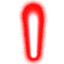
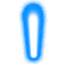
Highscore System eingebaut. Speichert lokale Bestzeit

Changed region(s): [[0.2812, 0.0, 0.75, 1.0]]

diff --git a/app.js b/app.js
@@ -21,11 +21,13 @@ var collectedCoins = 0;
 var shieldpower = 50;
 var laserpower = 10;
 var gamestarted = false;
-var astrocount = 25;
+var astrocount = 15;
 var keys = [];
 var image = 'img/bg.jpg'
 
 var dead = false;
+
+
 
 
 for (var i = 0; i < astrocount; i++) {
@@ -56,10 +58,10 @@ var player1 = new player(
 
 var coin1 = new coin({
 	image: "img/coins.png",
-	x: getRandomInt(150, myGameArea.canvas.width),
-	y: getRandomInt(150, myGameArea.canvas.height),
-	width: 40,
-	height: 40
+	x: getRandomInt(150, myGameArea.canvas.width - 60),
+	y: getRandomInt(150, myGameArea.canvas.height - 60),
+	width: 80,
+	height: 80
 });
 
 
@@ -75,12 +77,13 @@ var checkShipLaser = new checkShipLaserCollision(player1, lasercoin1);
 
 var x = new clsStopwatch();
 
+var start;
+
 
 
 
 myGameArea.canvas.style.backgroundRepeat = "no-repeat";
 myGameArea.canvas.style.backgroundImage = 'url(' + image + ')';
-
 
 openMenu();
 
@@ -107,7 +110,7 @@ document.body.addEventListener("keyup", function(e) {
 
 function startGame() {
 
-	window.requestAnimationFrame(function() {
+	start = window.requestAnimationFrame(function() {
 		if (collectedCoins != 15) {
 			if (!dead) {
 				updateGame();
@@ -121,10 +124,12 @@ function startGame() {
 			x.stop()
 			myGameArea.context.font = '50pt Calibri';
 			var endtime = formatTime(x.time());
-			myGameArea.context.fillText("YOU WON! TIME: " + endtime, myGameArea.canvas.width / 2 - 400, myGameArea.canvas.height / 2);
+            checkHighscore(x.time());
+            myGameArea.context.fillText("YOU WON! TIME: " + endtime, myGameArea.canvas.width / 2 - 400, myGameArea.canvas.height / 2);
 			dead = true;
+            cancelAnimationFrame(start);
 		}
-		window.requestAnimationFrame(function() {
+		start = window.requestAnimationFrame(function() {
 			startGame()
 		});
 	});
@@ -328,7 +333,7 @@ function player(width, height, color, x, y, ctx, imageurl, imageurl2) {
 				this.incrVelo();
 				flame = true;
 
-			} else if (keys[40] && shieldpower > 0) {
+			} else if (keys[16] && shieldpower > 0) {
 				shieldactive = true;
 			} else {
 				shieldactive = false;
@@ -427,7 +432,7 @@ function checkCollision(object1, object2) {
 
 		if (distance < object1.boundingbox.r + object2.boundingbox.r) {
 			collectedCoins++;
-			coin1.updatePosition(getRandomInt(30, myGameArea.canvas.width - 30), getRandomInt(30, myGameArea.canvas.height - 30));
+			coin1.updatePosition(getRandomInt(30, myGameArea.canvas.width - 60), getRandomInt(30, myGameArea.canvas.height - 60));
 		}
 	}
 }
@@ -565,10 +570,9 @@ function coin(c) {
 
 function Bullet(I) {
 	I.active = true;
-
 	I.xVelocity = 0;
 	I.yVelocity = 10;
-	I.r = 2;
+	I.r = 0.8;
 	I.color = "#000";
 	this.angle = I.angle;
 
@@ -596,11 +600,10 @@ function Bullet(I) {
 
 	I.draw = function() {
 		myGameArea.context.beginPath();
-		myGameArea.context.strokeStyle = '#22ff6f';
-		myGameArea.context.lineWidth = "5px";
+		myGameArea.context.strokeStyle = '#4db8ff';
+		myGameArea.context.lineWidth = "1px";
 		myGameArea.context.arc(I.x, I.y, I.r, 0, 2 * Math.PI);
-		myGameArea.context.fillStyle = "red";
-		myGameArea.context.fill();
+		
 		myGameArea.context.stroke();
 
 
@@ -725,18 +728,15 @@ function formatTime(time) {
  */
 
 function openMenu() {
-	var logo = new Image();
-	logo.src = "img/logo.png"
-	myGameArea.context.drawImage(logo, myGameArea.canvas.width / 2 - 300, 100, 600, 400);
+	logo = new Image();
+	logo.src = "img/coins.png"
 	myGameArea.context.font = '20pt Calibri';
 	myGameArea.context.fillStyle = 'white';
-	myGameArea.context.fillText("Controls: Arrow Up -> Speed up  Space -> Shoot  Arrow Down -> Shield", myGameArea.canvas.width / 2 - 370, myGameArea.canvas.height - 150);
+	myGameArea.context.fillText("Controls: Arrow Up -> Speed up  Space -> Shoot  Shift -> Shield", myGameArea.canvas.width / 2 - 370, myGameArea.canvas.height - 150);
 	myGameArea.context.fillText("Collect 15 Suns so fast as you can", myGameArea.canvas.width / 2 - 140, myGameArea.canvas.height - 200);
 	myGameArea.context.fillText("Press Enter to Start the Game", myGameArea.canvas.width / 2 - 120, myGameArea.canvas.height - 100);
-
-
+    myGameArea.context.drawImage(logo, myGameArea.canvas.width / 2 - 200, 200,logo.width,logo.height);
 }
-
 
 
 /**
@@ -758,6 +758,32 @@ function updateGame() {
 	checkLaserAstro1.update(playerBullets, asto);
 	explosion.update();
 
+}
+
+function checkHighscore(newScore) {
+    this.newScore = newScore;
+    this.highscore = Number(localStorage.getItem("astroracehighscore"));
+    if(highscore) {
+    if(this.newScore < highscore) {
+        setHighscore(newScore.toString());
+        return true;
+    }  else {
+        return false;
+    }
+    } else {
+        setHighscore(newScore.toString());
+        return true;
+    }
+  
+}
+
+function getLastHighscore() {
+    return Number(localStorage.getItem("astroracehighscore"));
+}
+
+function setHighscore(newScore) {
+    this.newScore = newScore.toString();
+    localStorage.setItem("astroracehighscore", this.newScore);
 }
 
 
@@ -786,11 +812,13 @@ function drawGame() {
 
 
 	myGameArea.context.font = '20pt Calibri';
-	myGameArea.context.fillStyle = 'white';
+	myGameArea.context.fillStyle = '#99d6ff';
 	myGameArea.context.fillText("Actual Run", 20, 30);
 	myGameArea.context.fillText(formatTime(x.time()), 20, 53);
 	myGameArea.context.fillText("Collected Coins", 200, 30);
 	myGameArea.context.fillText(collectedCoins + "/15", 200, 53);
+    	myGameArea.context.fillText("Best Time", 400, 30);
+	myGameArea.context.fillText(formatTime(getLastHighscore()), 400, 53);
 }
 
 
